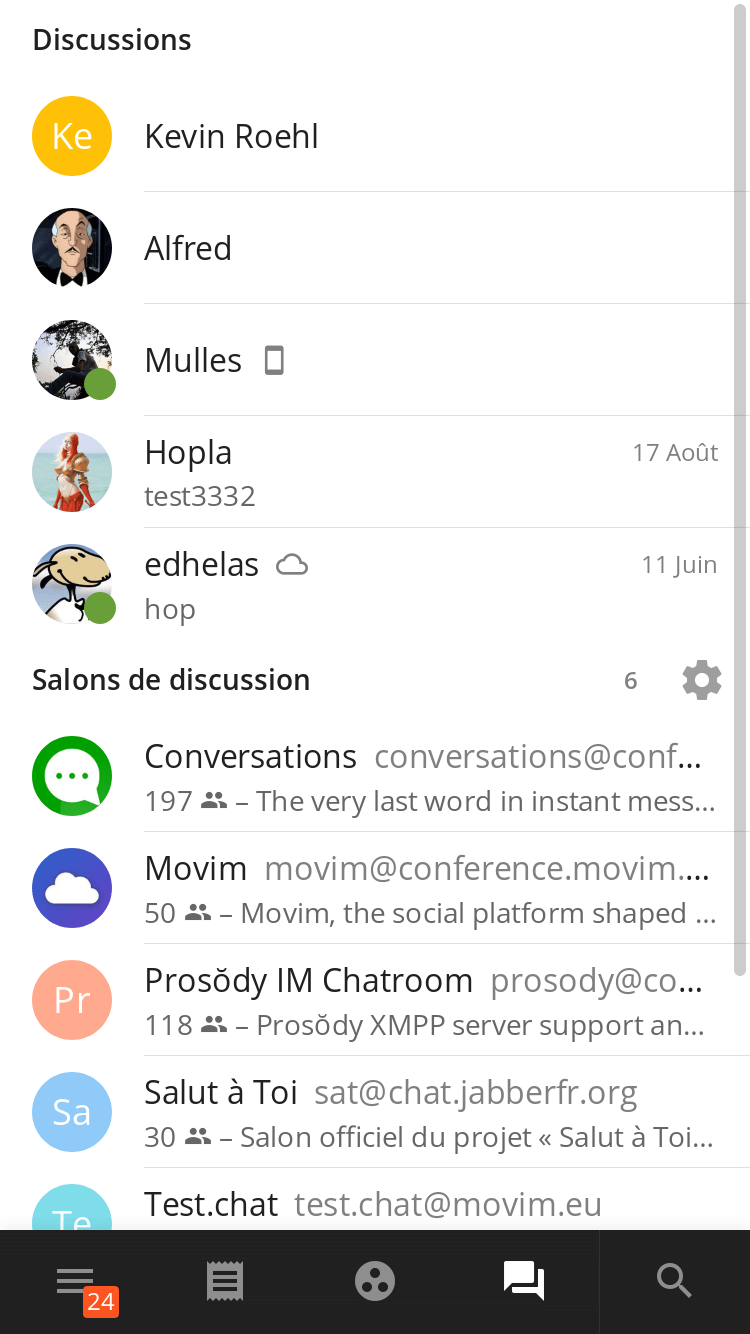
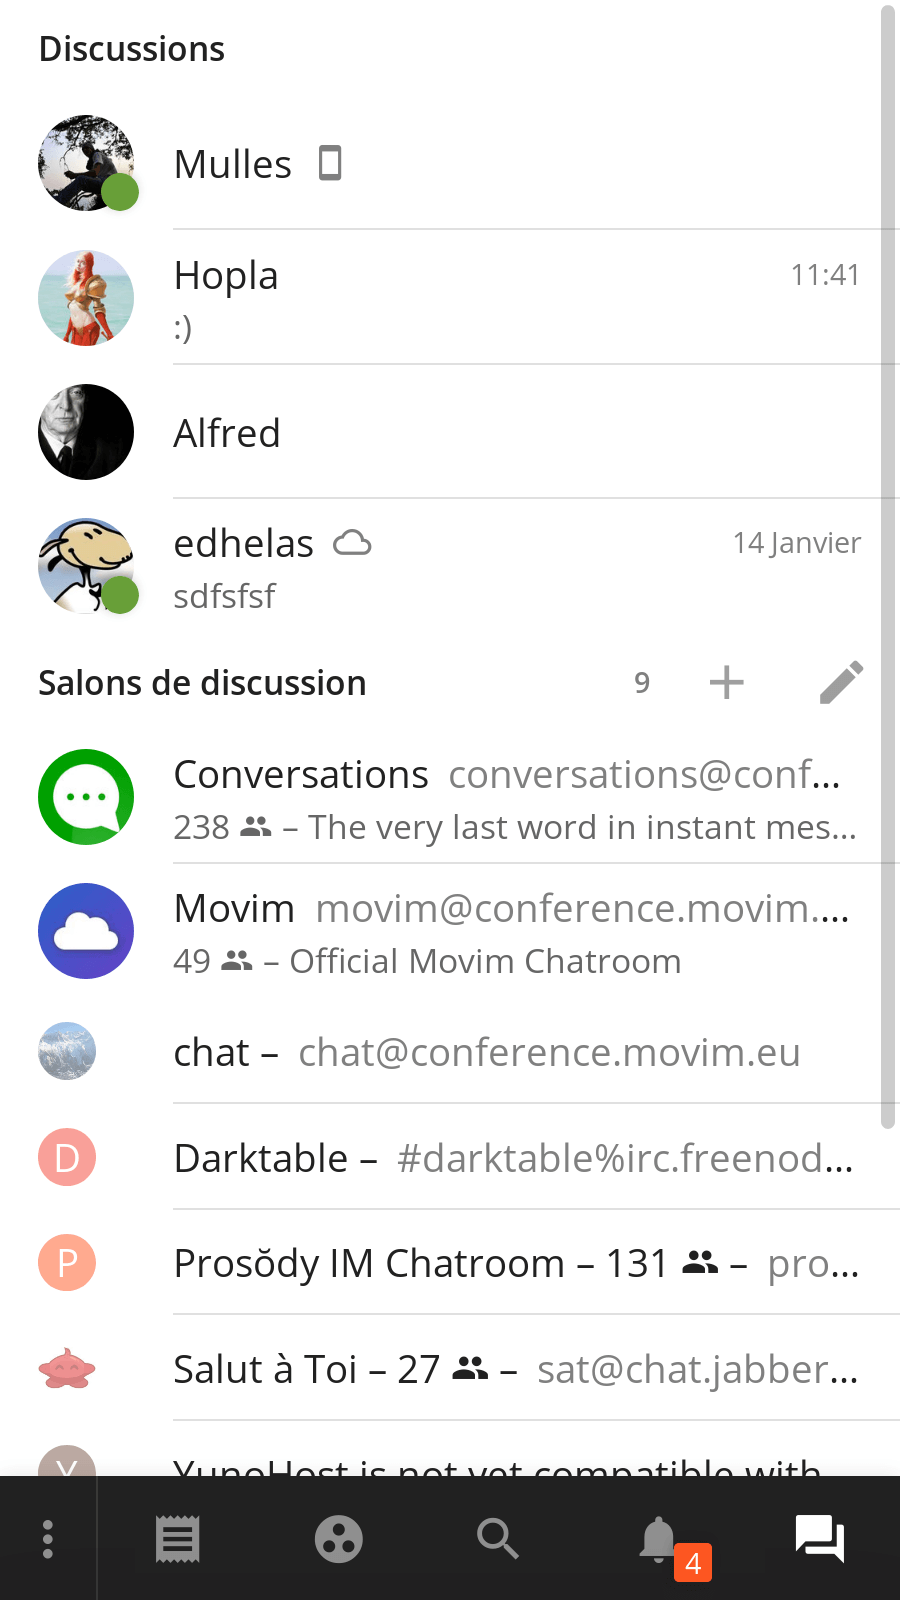
Update the pictures Add Reactions feature Update the official pods list

diff --git a/index.html b/index.html
@@ -173,7 +173,7 @@
                 Movim chats are coming with many features to give you the best chat experience accross all your devices.</h3>
 
                 <div class="half">
-                    <div class="mobile dark" style="top: -3rem; left: 110%; transform: scale(1.2)">
+                    <div class="mobile dark" style="top: 0.5rem; left: 110%; transform: scale(1.2)">
                         <div class="screen">
                             <img src="img/stickers.png">
                         </div>
@@ -206,6 +206,12 @@
                             <i class="zmdi zmdi-mood"></i>
                             <p>
                                 Share funny stickers<br/> with your friends in one click!
+                            </p>
+                        </div>
+                        <div class="block">
+                            <i class="zmdi zmdi-thumb-up"></i>
+                            <p>
+                                React to chat messages<br/> with funny emojis.
                             </p>
                         </div>
                     </div>
@@ -364,24 +370,24 @@
                     </div>
                     <div class="block">
                         <i class="zmdi zmdi-storage"></i>
-                        <h2><a target="_blank" href="https://fr.movim.eu/">fr.movim.eu</a></h2>
-                        <p>France</p>
+                        <h2><a target="_blank" href="https://fi.movim.eu/">fi.movim.eu</a></h2>
+                        <p>Finland</p>
                     </div>
-                    <div class="block">
+                    <!--<div class="block">
                         <i class="zmdi zmdi-storage"></i>
                         <h2><a target="_blank" href="https://de.movim.eu/">de.movim.eu</a></h2>
                         <p>Germany</p>
-                    </div>
+                    </div>-->
                     <div class="block">
                         <i class="zmdi zmdi-storage"></i>
                         <h2><a target="_blank" href="https://movim.se/">movim.se</a></h2>
                         <p>Sweden</p>
                     </div>
-                    <div class="block">
+                    <!--<div class="block">
                         <i class="zmdi zmdi-storage"></i>
                         <h2><a target="_blank" href="https://movim.feder8.ru/">movim.feder8.ru</a></h2>
                         <p>Russia</p>
-                    </div>
+                    </div>-->
                     <div class="block">
                         <i class="zmdi zmdi-storage"></i>
                         <h2><a target="_blank" href="https://jp.mov.im/">jp.mov.im</a></h2>
@@ -453,7 +459,7 @@
                         </a>
                     </div>
                 </div>
-                <p style="text-align: center;">Copyright 2008 – 2018 <a href="https://edhelas.movim.eu/">Timothée Jaussoin</a></p>
+                <p style="text-align: center;">Copyright 2008 – 2019 <a href="https://edhelas.movim.eu/">Timothée Jaussoin</a></p>
             </div>
         </section>
     </body>
